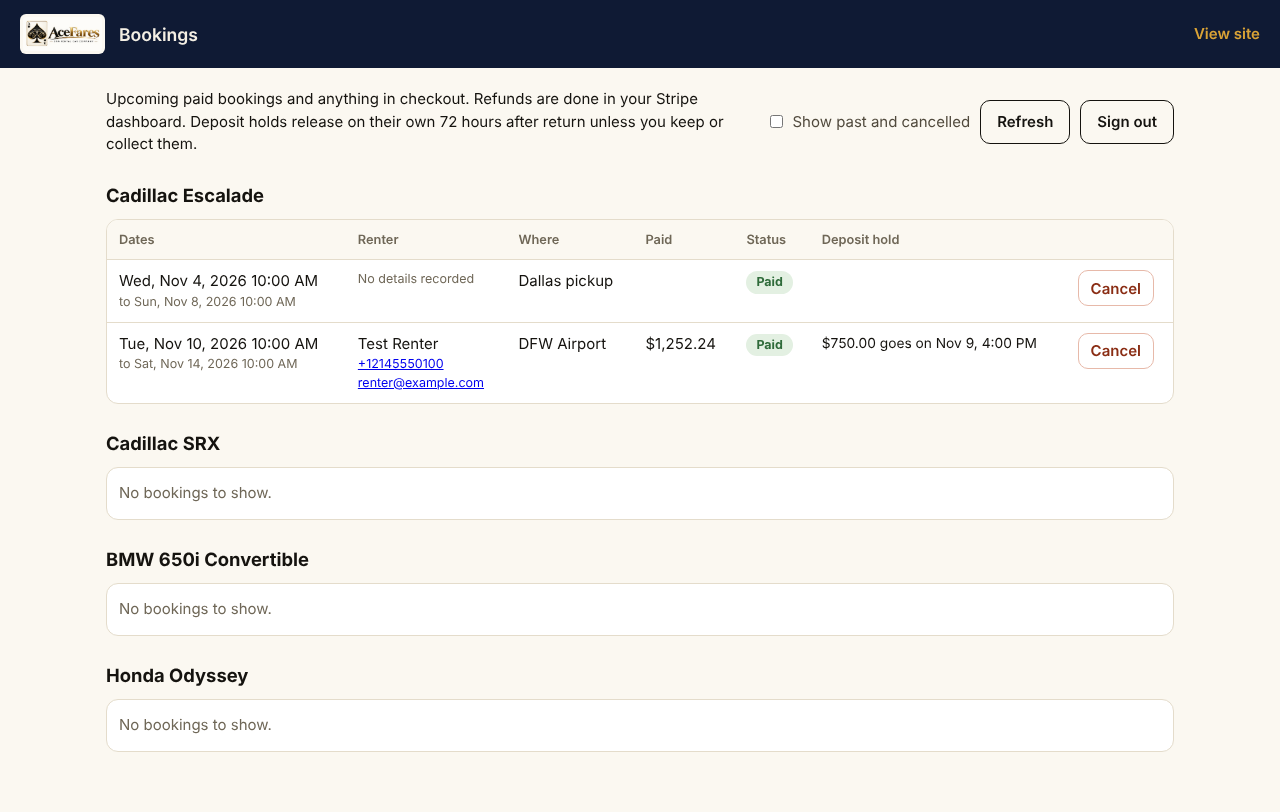
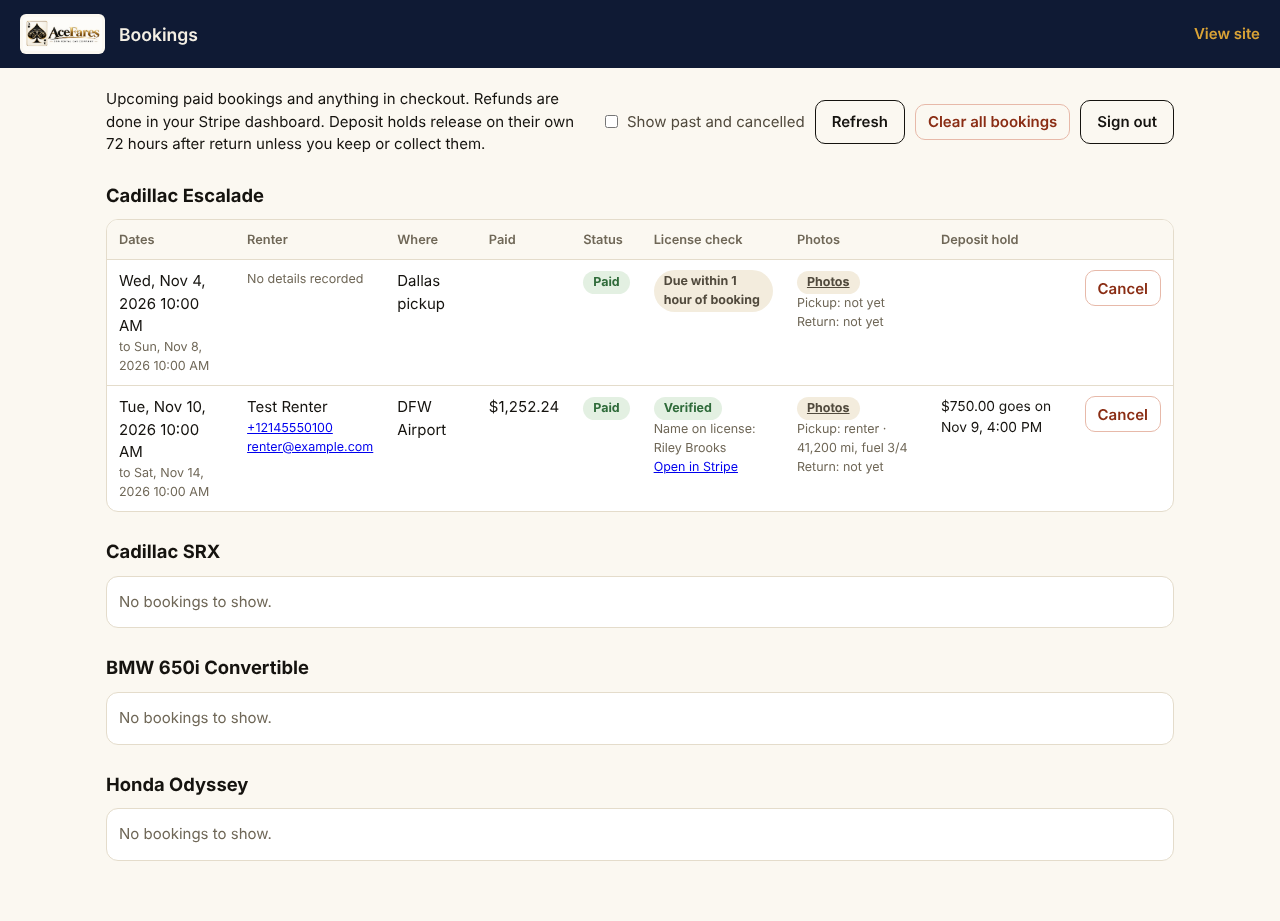
Audit fixes: delivery address, flight number, webhook error, security headers, SEO
- Checkout asks for the delivery address (required for Delivery) and flight number (DFW);
  saved to the booking, Stripe metadata, owner email and bookings page
- Stripe webhook: clear 503 when STRIPE_WEBHOOK_SECRET is missing (no stack trace shown)
- Security headers (nosniff, SAMEORIGIN, referrer policy); admin page noindex/no-store
- robots.txt, sitemap.xml, social share image and Open Graph tags

Claude-Session: https://claude.ai/code/session_013tTQ2HpLxqD5eMABEcZQQT

diff --git a/public/checkout.html b/public/checkout.html
@@ -177,6 +177,8 @@ hr{border:0;border-top:1px solid var(--line);margin:18px 0}
           </div>
           <p class="help under">By providing a phone number, you consent to receive automated text messages with trip or account updates from Ace Fares. Message and data rates may apply. Reply STOP to opt out.</p>
           <div class="ctl" id="c-email"><label for="email">Email</label><input id="email" type="email" autocomplete="email" placeholder="name@example.com"><p class="err">Enter a valid email address.</p></div>
+          <div class="ctl" id="c-addr" hidden><label for="addr">Delivery address</label><input id="addr" autocomplete="street-address" placeholder="Street address, city and ZIP"><p class="err">Enter the address where we should deliver the car.</p></div>
+          <div class="ctl" id="c-flight" hidden><label for="flight">Flight number <span style="color:var(--ink-3)">(optional)</span></label><input id="flight" autocomplete="off" placeholder="e.g. AA 1234"><p class="help" style="margin:6px 0 0">So we can meet you when you land at DFW.</p></div>
           <div class="ctl" id="c-age"><label for="age">Age</label><select id="age"><option value="">Select your age</option><option value="18">18</option><option value="19">19</option><option value="20">20</option><option value="21">21</option><option value="22">22</option><option value="23">23</option><option value="24">24</option><option value="25+">25 or older</option><option value="under18">Under 18</option></select><p class="err" id="age-err">Select your age.</p></div>
           <p class="help" id="details-help">We'll email your confirmation and rental agreement. Your Ace Fares account is created from these details, so you can see your trip and verify your license.</p>
         </section>
@@ -403,6 +405,7 @@ function check() {
     ["phone", v("phone").replace(/\D/g, "").length >= ($("#cc").value.trim() === "+1" ? 10 : 7)],
     ["email", /^[^\s@]+@[^\s@]+\.[^\s@]{2,}$/.test(v("email"))],
     ["age", !!v("age") && v("age") !== "under18"],
+    ["addr", $("#c-addr").hidden || v("addr").length >= 8],
     ["ins-co", insChoice() !== "own" || v("ins-co").length >= 2],
   ];
   $("#age-err").textContent = v("age") === "under18" ? "Drivers must be at least 18 to book." : "Select your age.";
@@ -428,7 +431,7 @@ $("#form").addEventListener("submit", async e => {
     const name = `${$("#first").value.trim()} ${$("#last").value.trim()}`, email = $("#email").value.trim();
     const phone = `${$("#cc").value.trim()} ${$("#phone").value.trim()}`, age = $("#age").value;
     const d = await api("/checkout-details", { method: "POST", body: JSON.stringify({ car: CAR, ref: REF, name, email, phone,
-      age, agree: true, agreedAt: agreedAt || new Date().toISOString(), termsVersion: TERMS && TERMS.version,
+      age, deliveryAddress: $("#addr").value.trim(), flight: $("#flight").value.trim(), agree: true, agreedAt: agreedAt || new Date().toISOString(), termsVersion: TERMS && TERMS.version,
       insurance: { choice: insChoice(), company: $("#ins-co").value.trim(), policy: $("#ins-pol").value.trim() } }) });
     if (!d.ok) {
       if (d.status === 401) { location.href = `/?login=1&next=${encodeURIComponent(location.pathname + location.search)}`; return; }
@@ -470,6 +473,8 @@ $("#back").addEventListener("click", async () => {
   if (r.data.paymentIntent || st === "confirmed") { location.replace(`/?booking=success&payment_intent=${encodeURIComponent(r.data.paymentIntent || "")}`); return; }
   if (!r.data.clientSecret) return ended();
   renderSummary(r.data.summary);
+  $("#c-addr").hidden = r.data.summary.locationId !== "dallas-delivery";
+  $("#c-flight").hidden = r.data.summary.locationId !== "dfw";
   const back = encodeURIComponent(location.pathname + location.search);
   $("#login-btn").href = `/?login=1&next=${back}`;
   $("#login-btn").hidden = !!r.data.signedIn; $("#signed-as").hidden = !r.data.signedIn;

diff --git a/public/admin.html b/public/admin.html
@@ -148,7 +148,7 @@ function render(data){
       const canCancel = b.status === "confirmed" || b.status === "hold" || b.status === "conflict";
       html += `<tr><td>${nice(b.from)} ${t12(b.fromTime)}<small>to ${nice(b.to)} ${t12(b.toTime)}</small></td>
         <td>${esc(c.name) || `<small>${b.status === "hold" ? "Not paid yet" : "No details recorded"}</small>`}${c.phone ? `<small><a href="tel:${esc(c.phone)}">${esc(c.phone)}</a></small>` : ""}${c.email ? `<small><a href="mailto:${esc(c.email)}">${esc(c.email)}</a></small>` : ""}${b.insurance ? `<small>Insurance: ${b.insurance.choice === "roamly" ? "getting Roamly" : esc(b.insurance.company || "") + (b.insurance.policy ? " #" + esc(b.insurance.policy) : "")}</small>` : ""}${(b.credits || []).length ? `<small>Credits: ${b.credits.map(x => esc(x.label) + " " + money(x.amount)).join(", ")}</small>` : ""}</td>
-        <td>${PLACES[b.location] || esc(b.location)}</td>
+        <td>${PLACES[b.location] || esc(b.location)}${b.handoff && b.handoff.address ? `<small>${esc(b.handoff.address)}</small>` : ""}${b.handoff && b.handoff.flight ? `<small>Flight ${esc(b.handoff.flight)}</small>` : ""}</td>
         <td>${money(b.amountPaid || (b.status === "confirmed" ? b.total : 0))}</td>
         <td><span class="pill ${esc(b.status)}">${LABEL[b.status] || esc(b.status)}</span>${b.signature ? `<small title="Fingerprint ${esc(b.signature.sha256)}">Signed ${esc(new Date(b.signature.signedAt).toLocaleString())}<br>IP ${esc(b.signature.ip)} · v${esc(b.signature.agreementVersion)}</small>` : ""}</td>
         <td>${idCell(b)}</td>

diff --git a/public/index.html b/public/index.html
@@ -5,6 +5,15 @@
 <meta name="viewport" content="width=device-width, initial-scale=1">
 <title>Ace Fares Rentals</title>
 <meta name="description" content="Rent a Cadillac Escalade, Cadillac SRX, BMW 650i convertible or Honda Odyssey van direct from the owner in Dallas, Texas. Pickup in Dallas or delivery across DFW.">
+<meta property="og:type" content="website">
+<meta property="og:site_name" content="Ace Fares Rentals">
+<meta property="og:title" content="Ace Fares Rentals: Dallas car rentals direct from the owner">
+<meta property="og:description" content="Cadillac Escalade, Cadillac SRX, BMW 650i convertible and Honda Odyssey. Pickup in Dallas, delivery or DFW Airport.">
+<meta property="og:url" content="https://acefaresrental.netlify.app/">
+<meta property="og:image" content="https://acefaresrental.netlify.app/images/share.jpg">
+<meta property="og:image:width" content="1200"><meta property="og:image:height" content="630">
+<meta name="twitter:card" content="summary_large_image">
+<link rel="canonical" href="https://acefaresrental.netlify.app/">
 <link rel="icon" href="images/logo.png">
 <link rel="preconnect" href="https://fonts.googleapis.com">
 <link rel="preconnect" href="https://fonts.gstatic.com" crossorigin>
